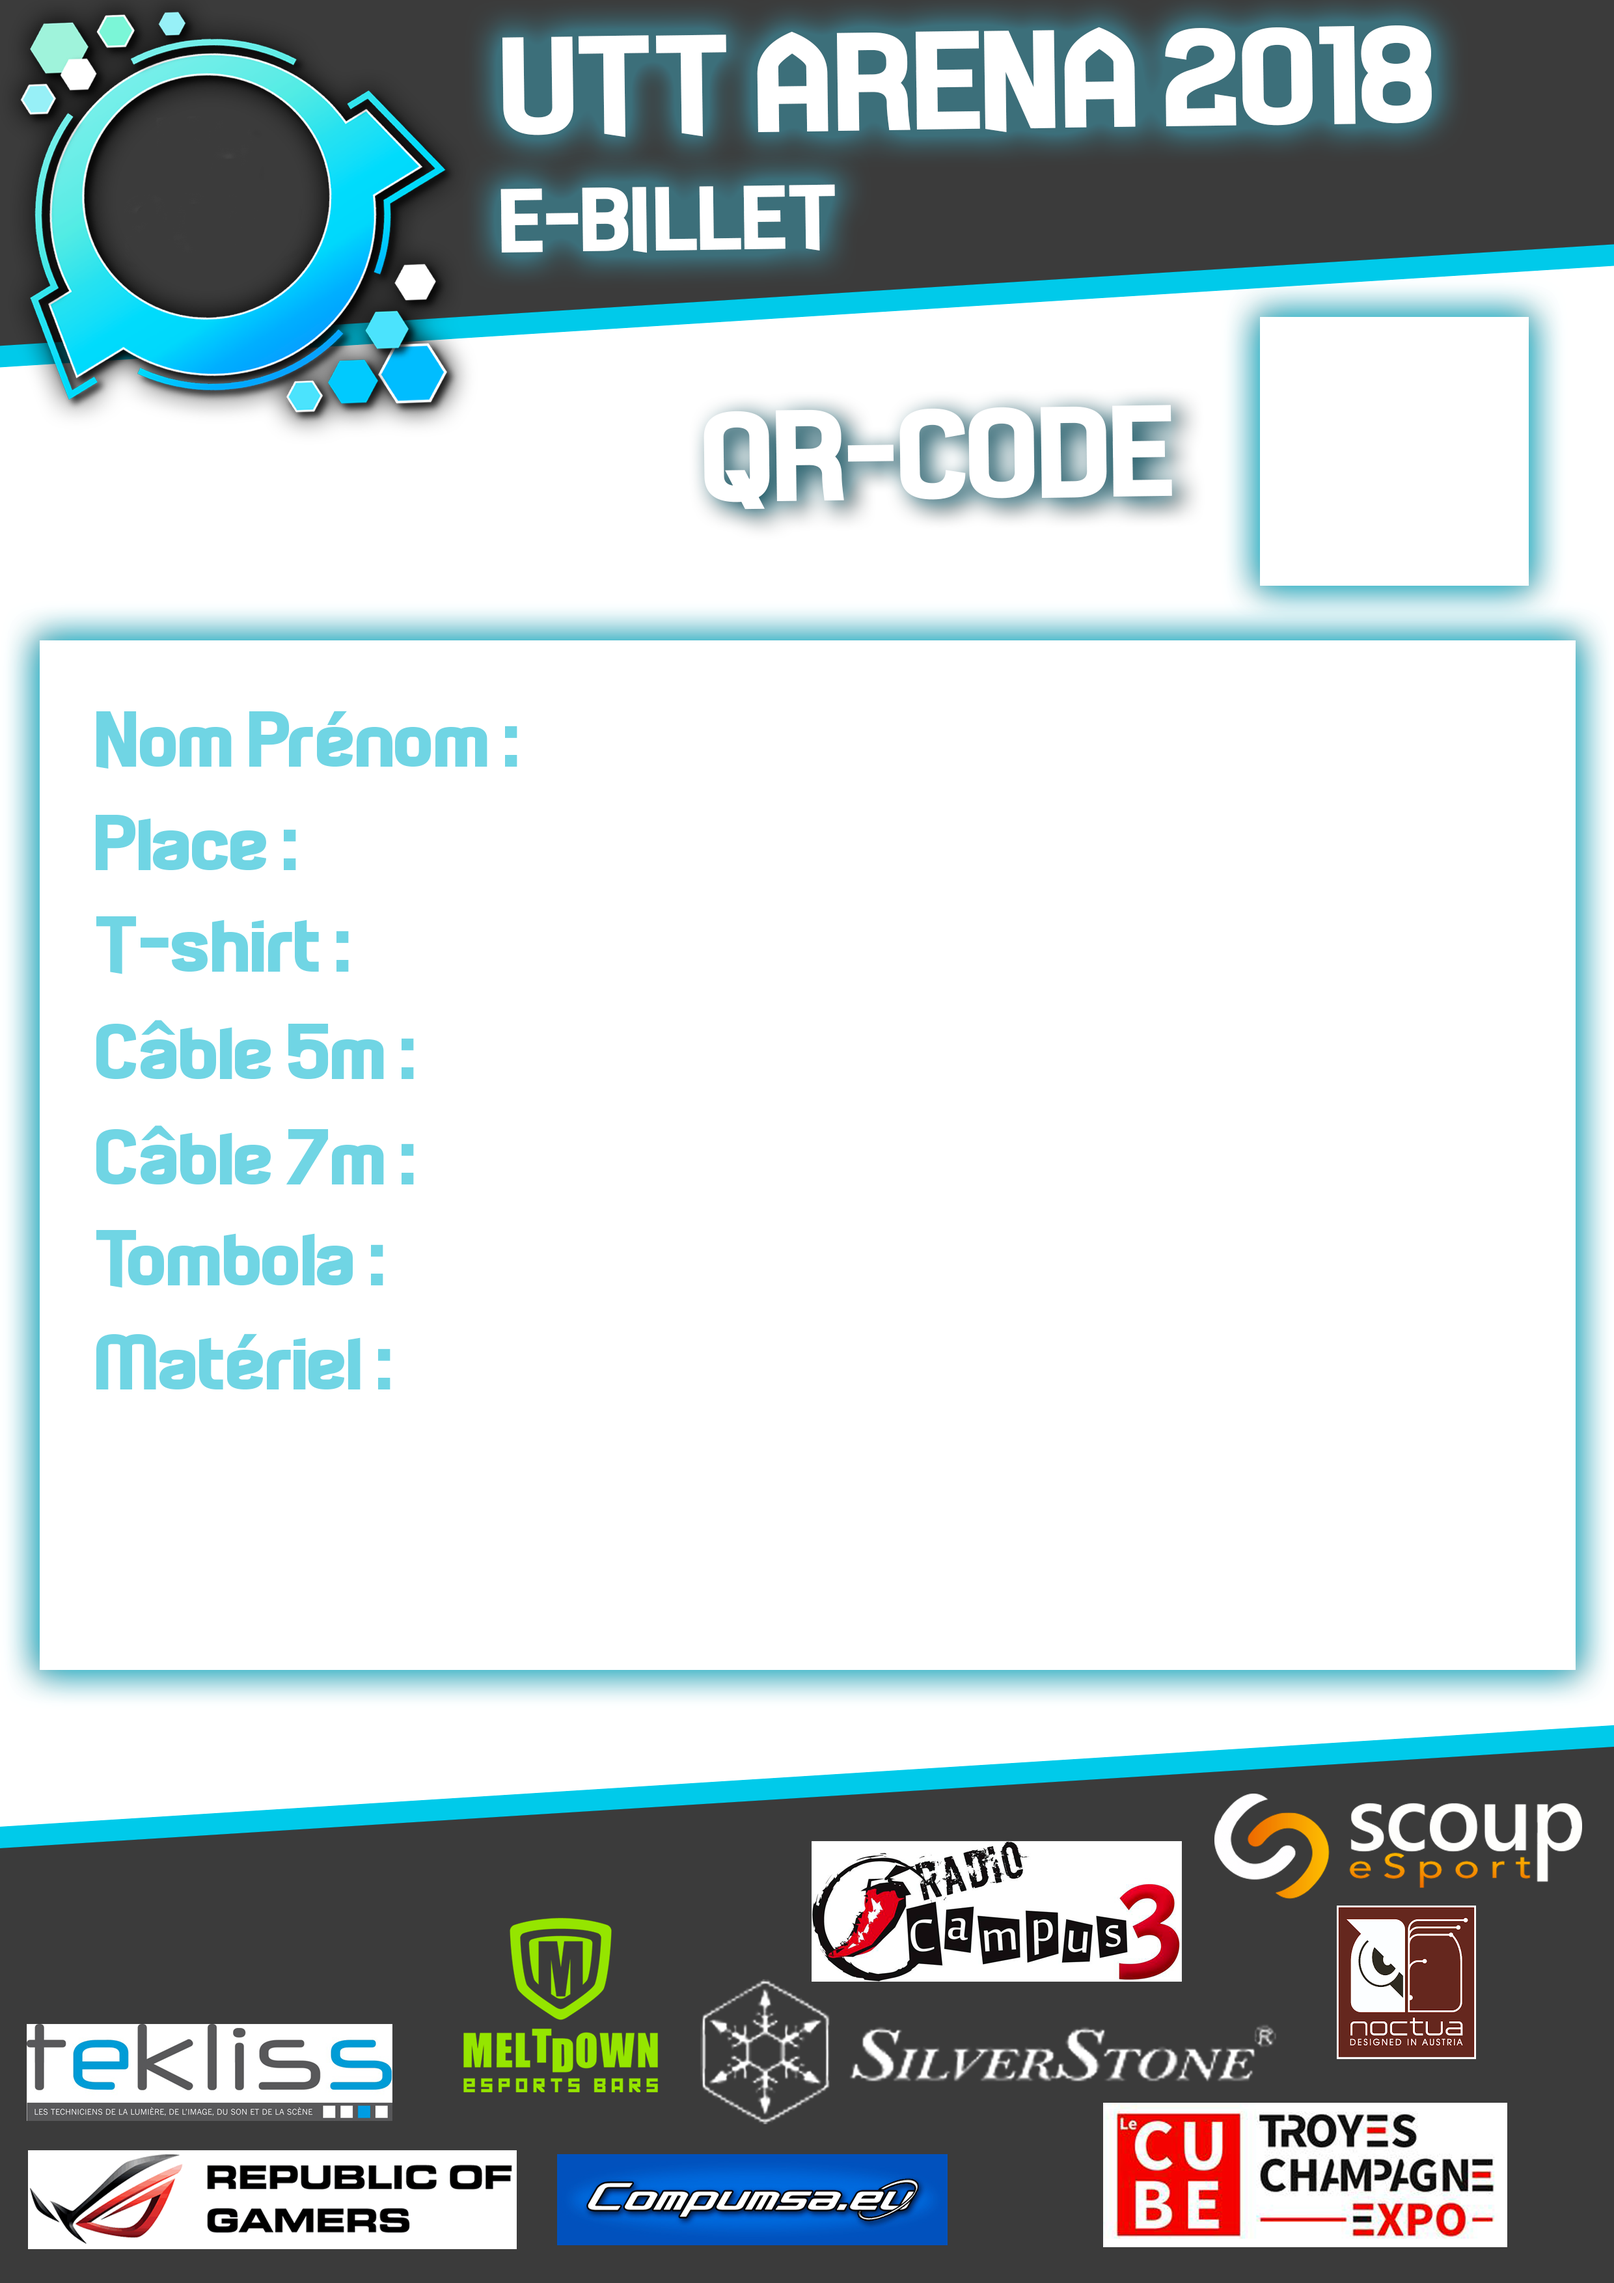
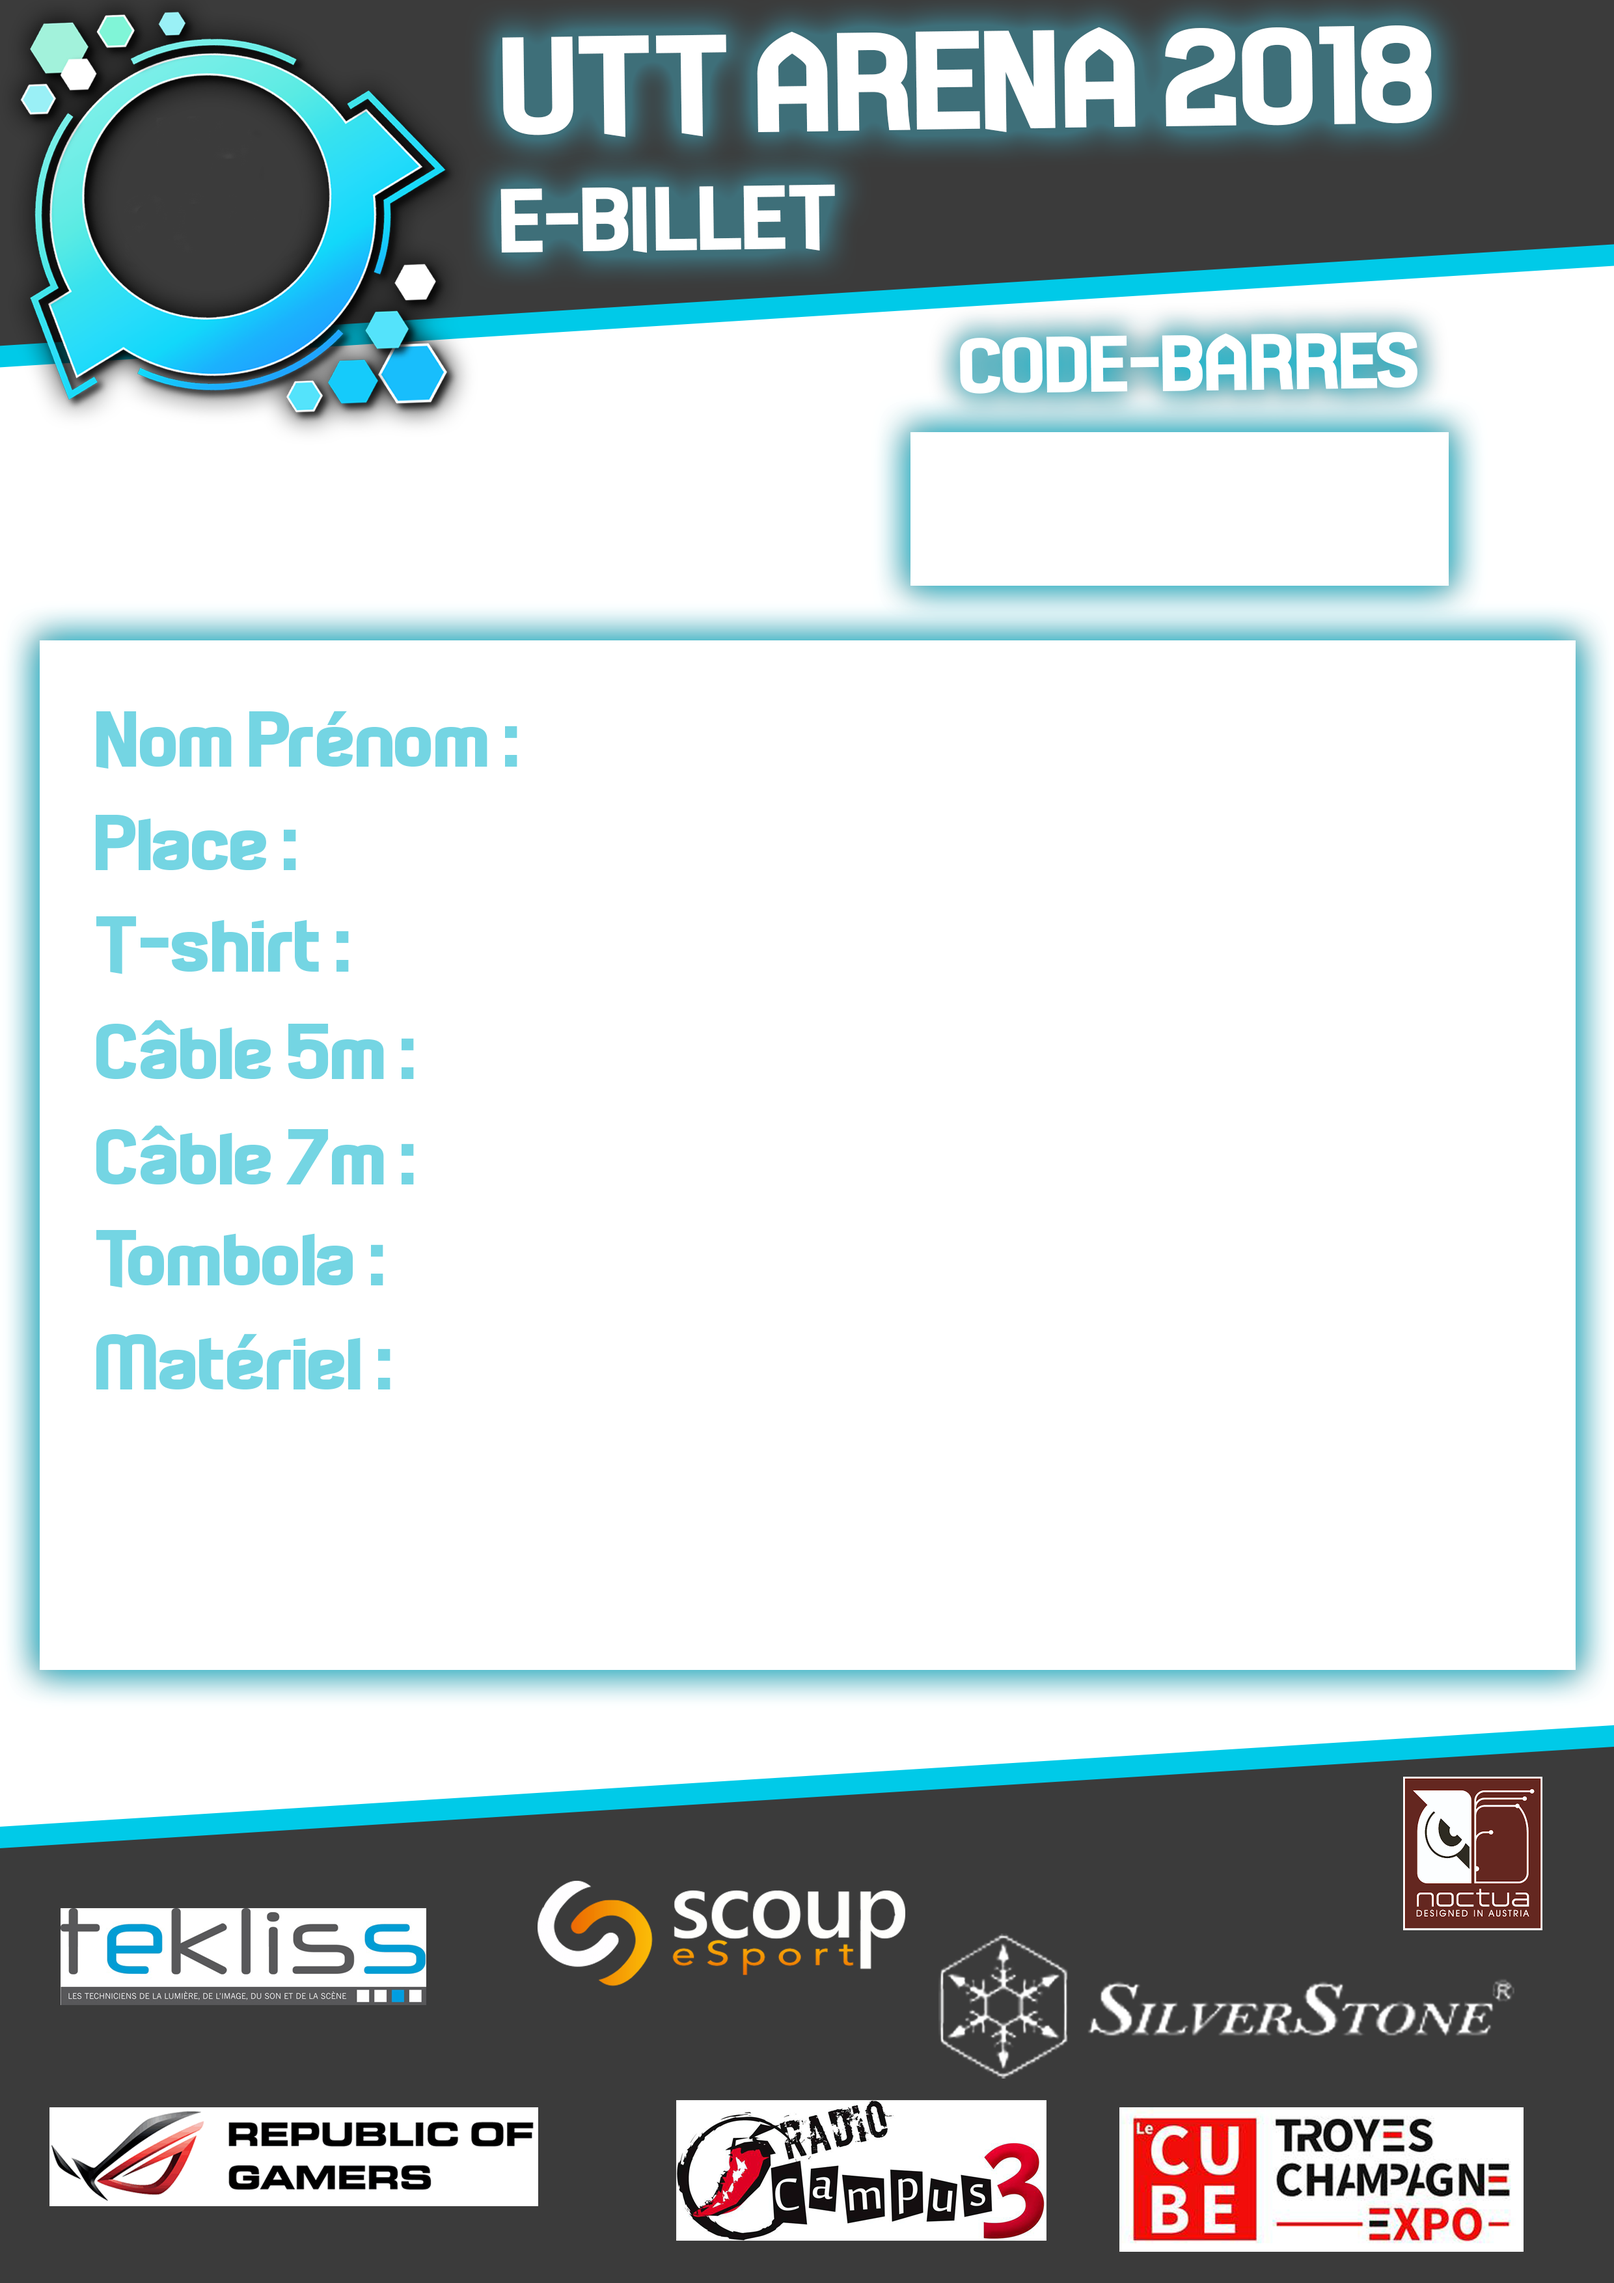
added barcode to pdf

Changed region(s): [[0.0, 0.7768, 0.9935, 0.9943], [0.4347, 0.1243, 0.9625, 0.2796], [0.031, 0.0621, 0.2794, 0.1864]]

diff --git a/src/api/utils/sendPDF.js b/src/api/utils/sendPDF.js
@@ -17,11 +17,11 @@ Toute l'équipe organisatrice`
 const htmlMessage = fs.readFileSync(path.join(__dirname, 'template.html'))
 
 function generateBarcode(user) {
-  log.info('USER BARCODE', user.barcode)
   return new Promise((resolve, reject) => {
+    
     bwipjs.toBuffer({
       bcid: 'ean13',
-      text: user.barcode,
+      text: user.barcode.substr(0, 12),
       height: 10,
       includetext: false
     }, function (err, png) {
@@ -29,7 +29,6 @@ function generateBarcode(user) {
         log.info(err)
         reject(err)
       }
-
       resolve(png)
     })
   })
@@ -70,7 +69,7 @@ function generatePdf(user, barcode) {
         .text(`${user.tombola}`, 153, 421)
         .text(`${scoup}`, 158, 457)
 
-    //doc.image(barcode, 215, 500)
+    doc.image(barcode, 364, 152, { height: 49 } )
 
     const buffers = []
 
@@ -83,9 +82,7 @@ function generatePdf(user, barcode) {
 }
 
 module.exports = async (user) => {
-  //const barcode = await generateBarcode(user)
-  const barcode = 01234
-  log.info('before generation')
+  const barcode = await generateBarcode(user)
   const pdf = await generatePdf(user, barcode)
   
   log.info(`[generatePdf] sending mail to ${user.email}`)
